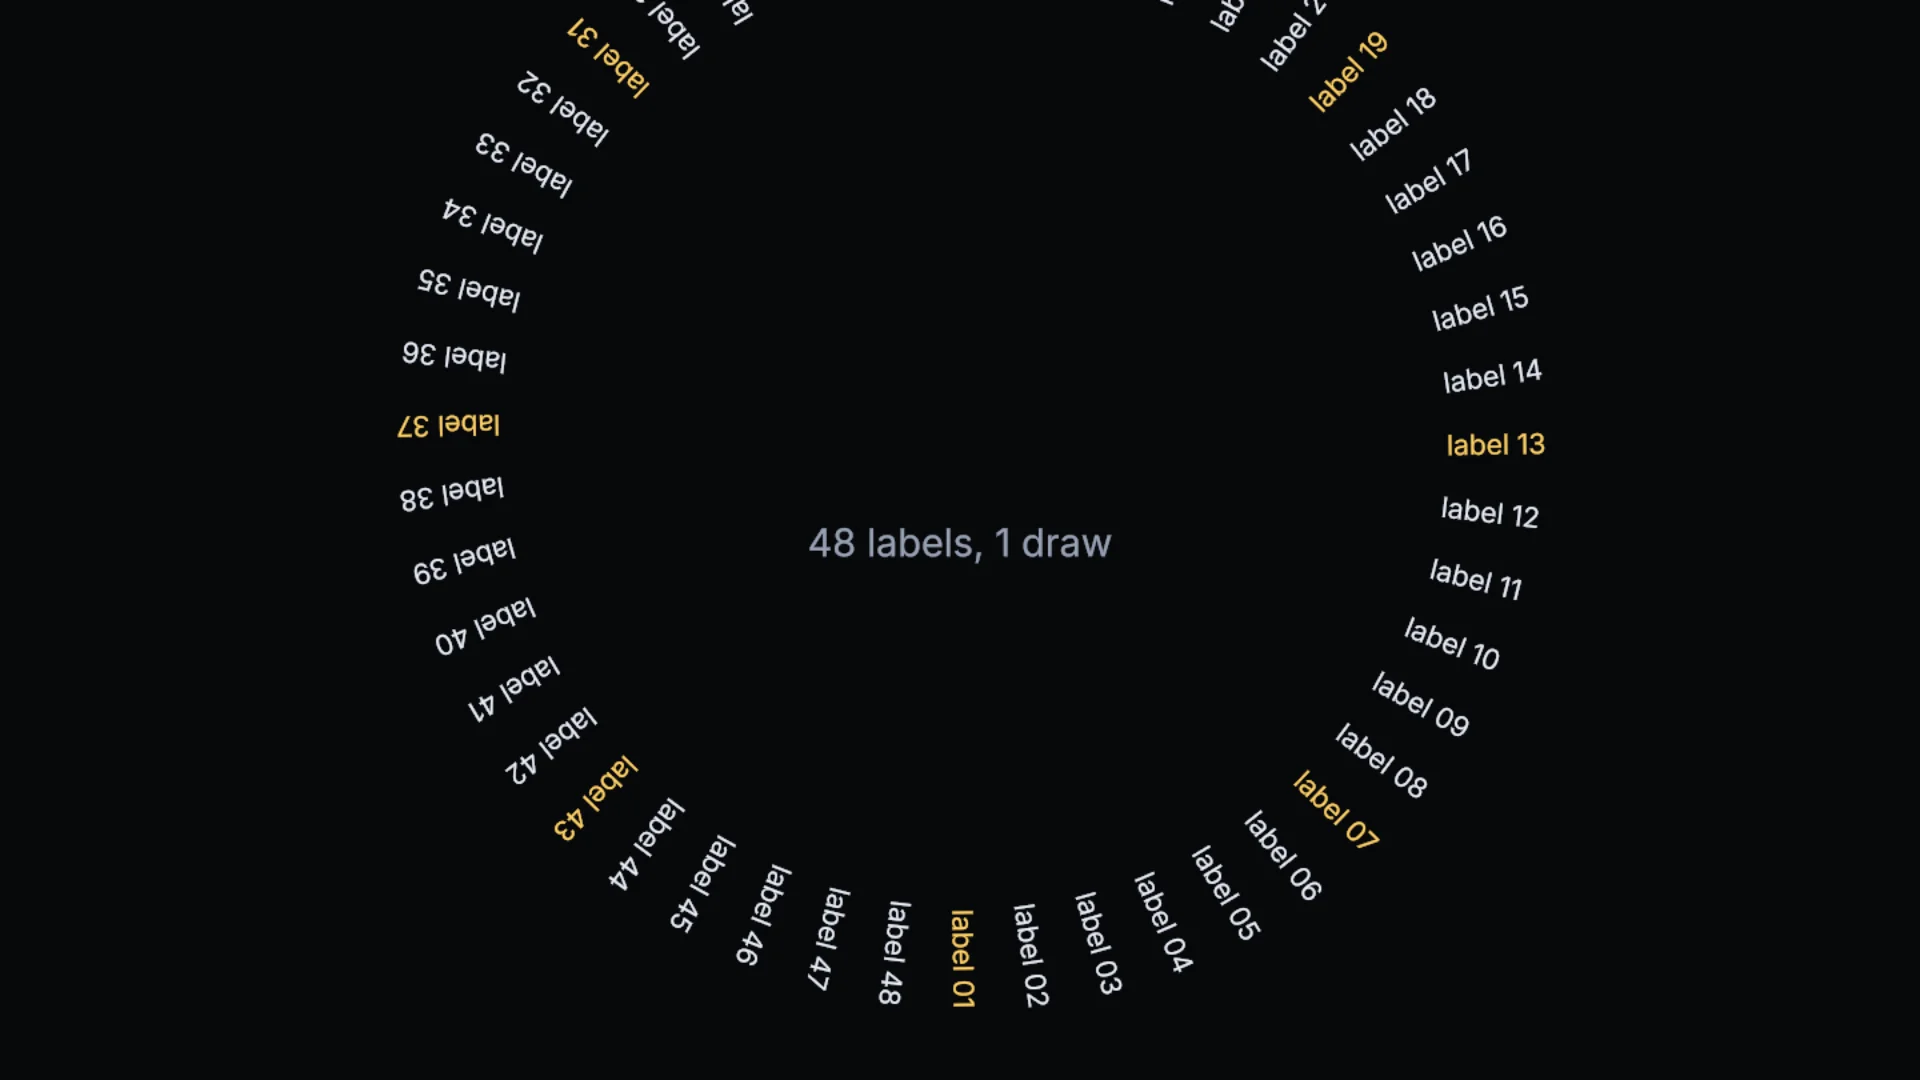
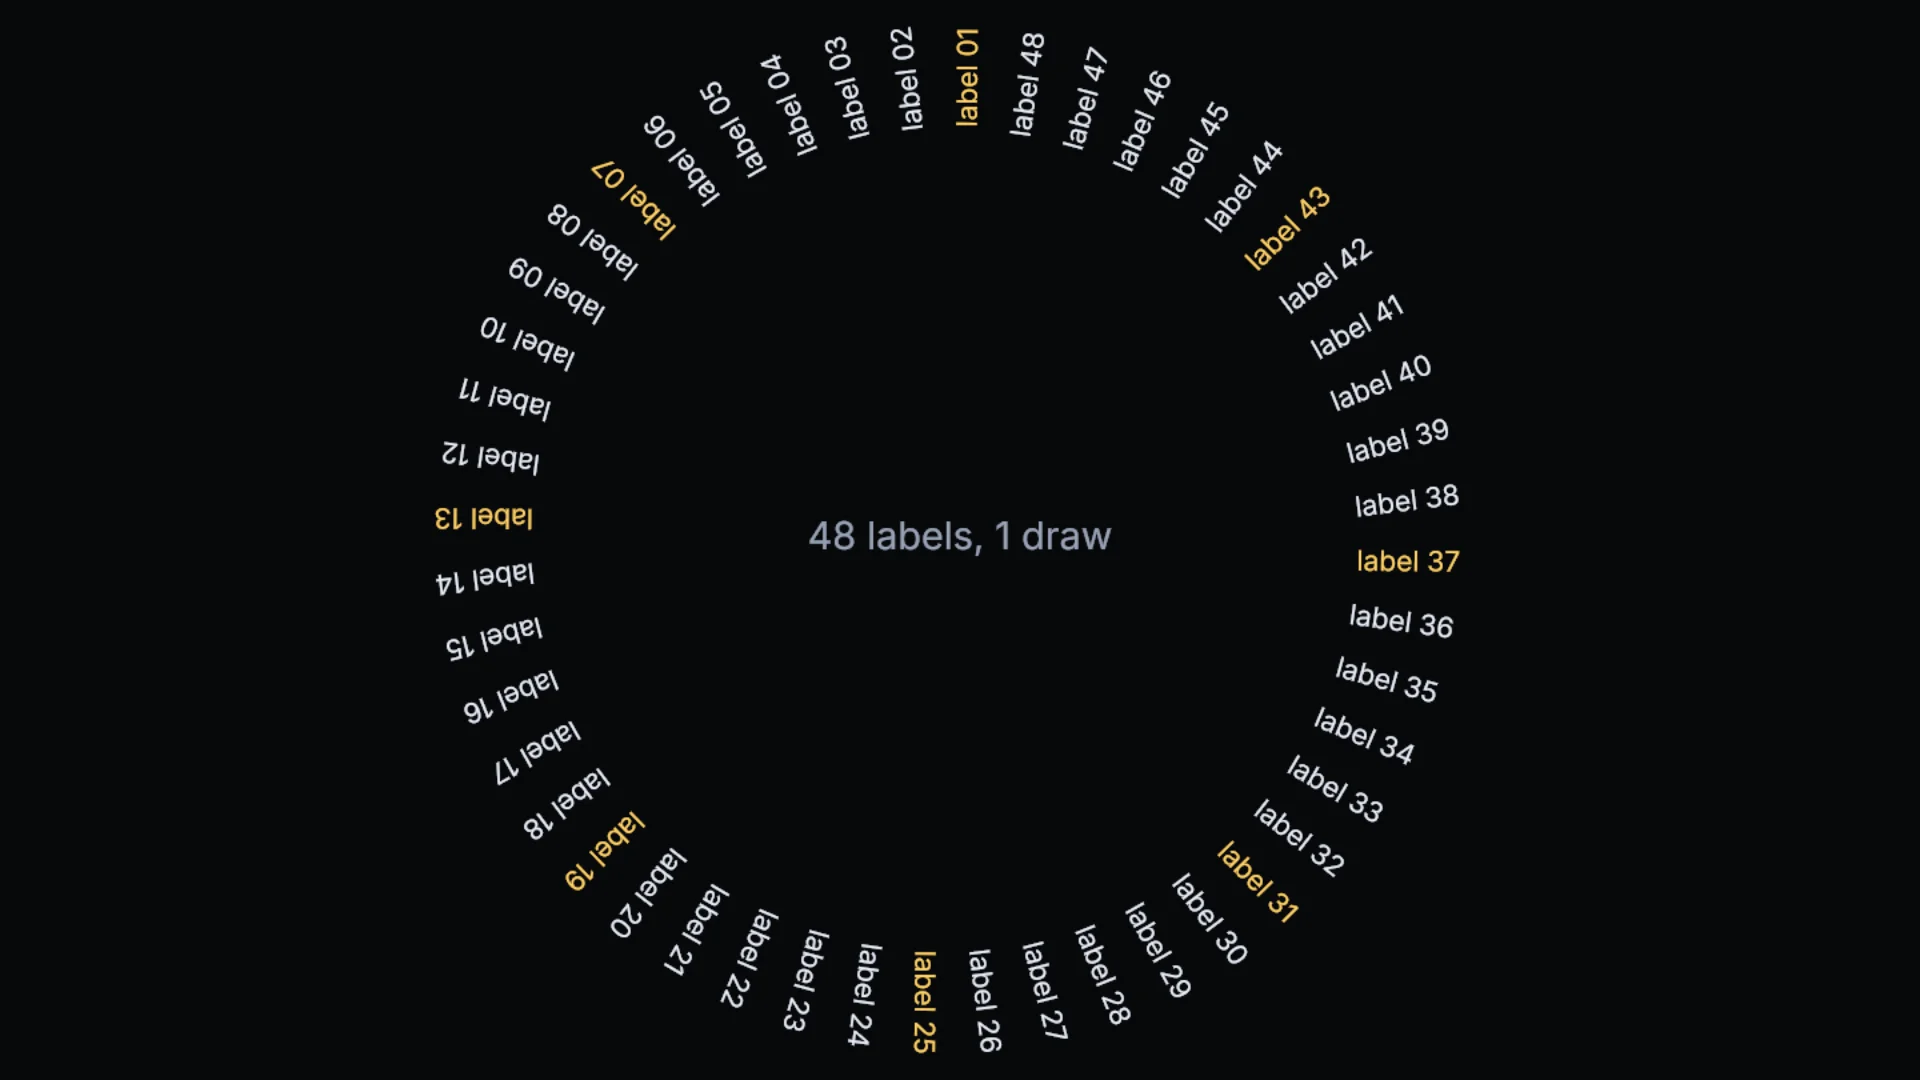
style(site): positioning pass over the technique scenes
Arc larger and centred; groups fitted to the frame; measurement centred
on its advance box; paragraph layout filling the frame with clip where
the subset has no ellipsis; styling rows balanced; the ladder centred by
height; zoom held between one and four times, where the formats differ.

diff --git a/site/examples/src/scenes/paragraph-layout/scene.tsx b/site/examples/src/scenes/paragraph-layout/scene.tsx
@@ -17,7 +17,7 @@ const PROSE =
 const COLUMNS = [
   ['wrap: word, align: start', { wrap: 'word', align: 'start' }],
   ['align: justify, lastLine: auto', { wrap: 'word', align: 'justify', lastLine: 'auto' }],
-  ['maxLines: 4, overflow: ellipsis', { wrap: 'word', align: 'start', maxLines: 4, overflow: 'ellipsis' }],
+  ['maxLines: 4, overflow: clip', { wrap: 'word', align: 'start', maxLines: 4, overflow: 'clip' }],
 ] as const;
 
 export default function ParagraphLayout() {
@@ -25,34 +25,34 @@ export default function ParagraphLayout() {
   const [width, setWidth] = useState(3);
 
   useFrame(({ elapsed }) => {
-    setWidth(2.6 + Math.sin(elapsed * 0.6) * 0.7);
+    setWidth(2.95 + Math.sin(elapsed * 0.6) * 0.55);
   });
 
   return (
     <>
       {COLUMNS.map(([caption, layout], index) => {
-        const x = -5.4 + index * 3.7;
+        const x = -5.35 + index * 3.7;
         return (
           <group key={caption} position={[x, 2.2, 0]}>
             <Text
               font={inter}
-              style={{ fontSize: 0.13, color: PAPER_DIM, letterSpacing: 0.02 }}
+              style={{ fontSize: 0.19, color: PAPER_DIM, letterSpacing: 0.02 }}
               layout={{ wrap: 'none' }}
               constraints={{ width: { mode: 'exact', size: 3.4 } }}
-              position={[0, 0.3, 0]}
+              position={[0, 0.36, 0]}
             >
               {caption}
             </Text>
             {/* The box, drawn so the reflow reads against something. */}
-            <mesh position={[width / 2, -1.5, -0.01]}>
-              <planeGeometry args={[width, 3.2]} />
+            <mesh position={[width / 2, -2.2, -0.01]}>
+              <planeGeometry args={[width, 4.4]} />
               <meshBasicNodeMaterial color="#0f1218" />
             </mesh>
             <Text
               font={inter}
-              style={{ fontSize: 0.2, color: index === 1 ? ACCENT : PAPER, lineHeight: 1.3 }}
+              style={{ fontSize: 0.27, color: index === 1 ? ACCENT : PAPER, lineHeight: 1.32 }}
               layout={layout}
-              constraints={{ width: { mode: 'exact', size: width }, height: { mode: 'at-most', size: 3.2 } }}
+              constraints={{ width: { mode: 'exact', size: width }, height: { mode: 'at-most', size: 4.4 } }}
             >
               {PROSE}
             </Text>

diff --git a/site/examples/src/scenes/text-ladder/scene.tsx b/site/examples/src/scenes/text-ladder/scene.tsx
@@ -29,13 +29,24 @@ export default function TextLadder() {
     ['slug', slug],
   ] as const;
   const columnWidth = width / columns.length;
-  const sizes = SIZES.filter((size) => size * WIDTH_PER_PX <= columnWidth - 32);
+  // Rows that fit the column's width, then the frame's height; the ladder is centred on the frame.
+  const HEADER = 26;
+  const sizes: number[] = [];
+  let total = HEADER;
+  for (const size of SIZES) {
+    if (size * WIDTH_PER_PX > columnWidth - 32) break;
+    const row = size * 1.15 + 6;
+    if (total + row > height - 24) break;
+    sizes.push(size);
+    total += row;
+  }
+  const top = total / 2;
 
   return (
     <>
       {columns.map(([label, font], column) => {
         const x = -width / 2 + column * columnWidth + 24;
-        let y = height / 2 - 64;
+        let y = top - HEADER;
         return (
           <group key={label}>
             <Text
@@ -43,7 +54,7 @@ export default function TextLadder() {
               style={{ fontSize: 12, color: PAPER_DIM, letterSpacing: 1 }}
               layout={{ wrap: 'none' }}
               constraints={{ width: { mode: 'exact', size: columnWidth } }}
-              position={[x, y, 0]}
+              position={[x, top, 0]}
             >
               {label.toUpperCase()}
             </Text>

diff --git a/site/examples/src/scenes/zoom/scene.tsx b/site/examples/src/scenes/zoom/scene.tsx
@@ -10,7 +10,7 @@ import { INTER, INTER_STRIKES } from '../../fonts';
 import { PAPER, PAPER_DIM } from '../../theme';
 
 /**
- * The same word, the same 32 px raster, magnified 0.25× to 4× by the scene
+ * The same word, the same 32 px raster, magnified 1× to 4× by the scene
  * transform — not by `fontSize`. What each format does under magnification is
  * the whole difference between them: a Bitmap strike is pixels and blurs, an
  * MSDF field holds a clean edge until its range runs out, and Slug evaluates
@@ -28,8 +28,9 @@ export default function Zoom() {
   const [magnification, setMagnification] = useState(1);
 
   useFrame(({ elapsed }) => {
-    // 0.25 → 4 and back, exponential so each doubling takes the same time.
-    const scale = 2 ** (Math.sin(elapsed * 0.45) * 2);
+    // 1 → 4 and back, exponential so each doubling takes the same time; below 1× the three look alike,
+    // and above 4× the columns would overlap.
+    const scale = 2 ** (1 + Math.sin(elapsed * 0.45));
     for (const column of columns.current) column?.scale.setScalar(scale);
     if (Math.abs(scale - shown.current) > 0.05) {
       shown.current = scale;

diff --git a/site/examples/src/scenes/measurement/three.ts b/site/examples/src/scenes/measurement/three.ts
@@ -20,7 +20,7 @@ export async function mount(scene: Scene): Promise<() => void> {
   const word = three.createText({
     font: script,
     text: 'glyph',
-    style: { fontSize: 1.2, color: '#e7ecf6' },
+    style: { fontSize: 1.5, color: '#e7ecf6' },
     layout: { wrap: 'none' },
   });
   word.position.set(-3.4, 1, 0);
@@ -38,7 +38,7 @@ export async function mount(scene: Scene): Promise<() => void> {
   // Renderer-free: the same numbers from a Paragraph that owns no scene object. A Paragraph takes an
   // immutable Font, which the face path does not hand out; the integrator loader does.
   const font = await loadFont(PLAYWRITE, slug);
-  const paragraph = await createParagraph({ font, text: 'glyph', style: { fontSize: 1.2 } });
+  const paragraph = await createParagraph({ font, text: 'glyph', style: { fontSize: 1.5 } });
   const metrics = paragraph.measure({ width: { mode: 'unconstrained' } });
   void metrics.minContentWidth; // longest unbreakable run, from the same pass
   paragraph.dispose();

diff --git a/site/examples/src/scenes/styling/scene.tsx b/site/examples/src/scenes/styling/scene.tsx
@@ -14,12 +14,12 @@ import { ACCENT, PAPER, PAPER_DIM } from '../../theme';
  * row animates opacity to show that opacity is inherited on its own.
  */
 const styles = TextStyle.create({
-  base: { fontSize: 0.36, color: PAPER, lineHeight: 1.1 },
+  base: { fontSize: 0.34, color: PAPER, lineHeight: 1.1 },
   caption: { fontSize: 0.14, color: PAPER_DIM, letterSpacing: 0.02 },
 });
 
 const ROWS = [
-  ['fontSize', { fontSize: 0.52 }],
+  ['fontSize', { fontSize: 0.47 }],
   ['lineHeight', { lineHeight: 0.8 }],
   ['letterSpacing', { letterSpacing: 0.06 }],
   ['wordSpacing', { wordSpacing: 0.25 }],
@@ -44,7 +44,7 @@ export default function Styling() {
   return (
     <>
       {rows.map(([name, override], index) => (
-        <group key={name} position={[0, 2.4 - index * 0.47, 0]}>
+        <group key={name} position={[0.8, 2.62 - index * 0.49, 0]}>
           <Text
             font={inter}
             style={styles.caption}

diff --git a/site/examples/src/scenes/groups/components/Ring.tsx b/site/examples/src/scenes/groups/components/Ring.tsx
@@ -16,7 +16,7 @@ export function Ring({ ref }: { readonly ref: Ref<ThreeTextGroup> }) {
     <TextGroup ref={ref} renderOrder={1}>
       {LABELS.map((label, index) => {
         const angle = (index / COUNT) * Math.PI * 2;
-        const radius = 2.4;
+        const radius = 2.05;
         return (
           <Text
             key={label}
@@ -24,7 +24,7 @@ export function Ring({ ref }: { readonly ref: Ref<ThreeTextGroup> }) {
             style={{ fontSize: 0.16, color: index % 6 === 0 ? ACCENT : PAPER }}
             layout={{ align: 'center', wrap: 'none' }}
             constraints={{ width: { mode: 'exact', size: 1.2 } }}
-            position={[Math.cos(angle) * radius - 0.6, Math.sin(angle) * radius + 0.08, 0]}
+            position={[Math.cos(angle) * radius, Math.sin(angle) * radius + 0.08, 0]}
             rotation={[0, 0, angle]}
           >
             {label}

diff --git a/site/examples/src/scenes/measurement/scene.tsx b/site/examples/src/scenes/measurement/scene.tsx
@@ -39,8 +39,9 @@ export default function Measurement() {
   });
 
   return (
-    <group position={[-3.4, 1, 0]}>
-      <Text ref={ref} font={script} style={{ fontSize: 1.2, color: PAPER }} layout={{ wrap: 'none' }}>
+    // Centred on the advance box once it is known; the box hangs down from the group's origin.
+    <group position={boxes === undefined ? [-1.6, 1, 0] : [-boxes.advance[2] / 2, boxes.advance[3] / 2 + 0.3, 0]}>
+      <Text ref={ref} font={script} style={{ fontSize: 1.5, color: PAPER }} layout={{ wrap: 'none' }}>
         glyph
       </Text>
       {boxes !== undefined && (

diff --git a/site/examples/src/scenes/styling/three.ts b/site/examples/src/scenes/styling/three.ts
@@ -9,12 +9,12 @@ import { INTER } from '../../fonts';
  * row, merged through the property list at the `style` boundary.
  */
 const styles = TextStyle.create({
-  base: { fontSize: 0.36, color: '#e7ecf6', lineHeight: 1.1 },
+  base: { fontSize: 0.34, color: '#e7ecf6', lineHeight: 1.1 },
   caption: { fontSize: 0.14, color: '#97a1b4', letterSpacing: 0.02 },
 });
 
 const ROWS = [
-  ['fontSize', { fontSize: 0.52 }],
+  ['fontSize', { fontSize: 0.47 }],
   ['letterSpacing', { letterSpacing: 0.06 }],
   ['wordSpacing', { wordSpacing: 0.25 }],
   ['color', { color: '#ffd166' }],

diff --git a/site/examples/src/scenes/paragraph-layout/three.ts b/site/examples/src/scenes/paragraph-layout/three.ts
@@ -15,7 +15,7 @@ const PROSE =
 const rules = ParagraphLayout.create({
   ragged: { wrap: 'word', align: 'start' },
   justified: { wrap: 'word', align: 'justify', lastLine: 'auto' },
-  capped: { wrap: 'word', align: 'start', maxLines: 4, overflow: 'ellipsis' },
+  capped: { wrap: 'word', align: 'start', maxLines: 4, overflow: 'clip' }, // the Inter subset has no ellipsis glyph
 });
 
 export async function mount(scene: Scene): Promise<() => void> {

diff --git a/site/examples/src/scenes/groups/three.ts b/site/examples/src/scenes/groups/three.ts
@@ -26,7 +26,7 @@ export async function mount(scene: Scene): Promise<() => void> {
       layout: { align: 'center', wrap: 'none' },
       constraints: { width: { mode: 'exact', size: 1.2 } },
     });
-    label.position.set(Math.cos(angle) * 2.4 - 0.6, Math.sin(angle) * 2.4 + 0.08, 0);
+    label.position.set(Math.cos(angle) * 2.05, Math.sin(angle) * 2.05 + 0.08, 0);
     label.rotation.z = angle;
     ring.add(label);
     return label;

diff --git a/site/examples/src/scenes/arc/scene.tsx b/site/examples/src/scenes/arc/scene.tsx
@@ -72,10 +72,10 @@ export default function Arc() {
     <Text
       ref={text}
       font={inter}
-      style={{ fontSize: 0.46, color: PAPER, letterSpacing: 0.01 }}
+      style={{ fontSize: 0.54, color: PAPER, letterSpacing: 0.01 }}
       layout={{ align: 'start', wrap: 'none' }}
       constraints={{ width: { mode: 'exact', size: 30 } }}
-      position={[0, 0.15, 0]}
+      position={[0, 0.5, 0]}
     >
       {TEXT}
     </Text>

diff --git a/site/examples/src/scenes/zoom/three.ts b/site/examples/src/scenes/zoom/three.ts
@@ -53,7 +53,7 @@ export async function mount(scene: Scene, width: number, height: number): Promis
   let elapsed = 0;
   const tick = (): void => {
     elapsed += 1 / 60;
-    const scale = 2 ** (Math.sin(elapsed * 0.45) * 2);
+    const scale = 2 ** (1 + Math.sin(elapsed * 0.45)); // 1× to 4×
     for (const { zoomed } of columns) zoomed.scale.setScalar(scale);
     frame = requestAnimationFrame(tick);
   };
